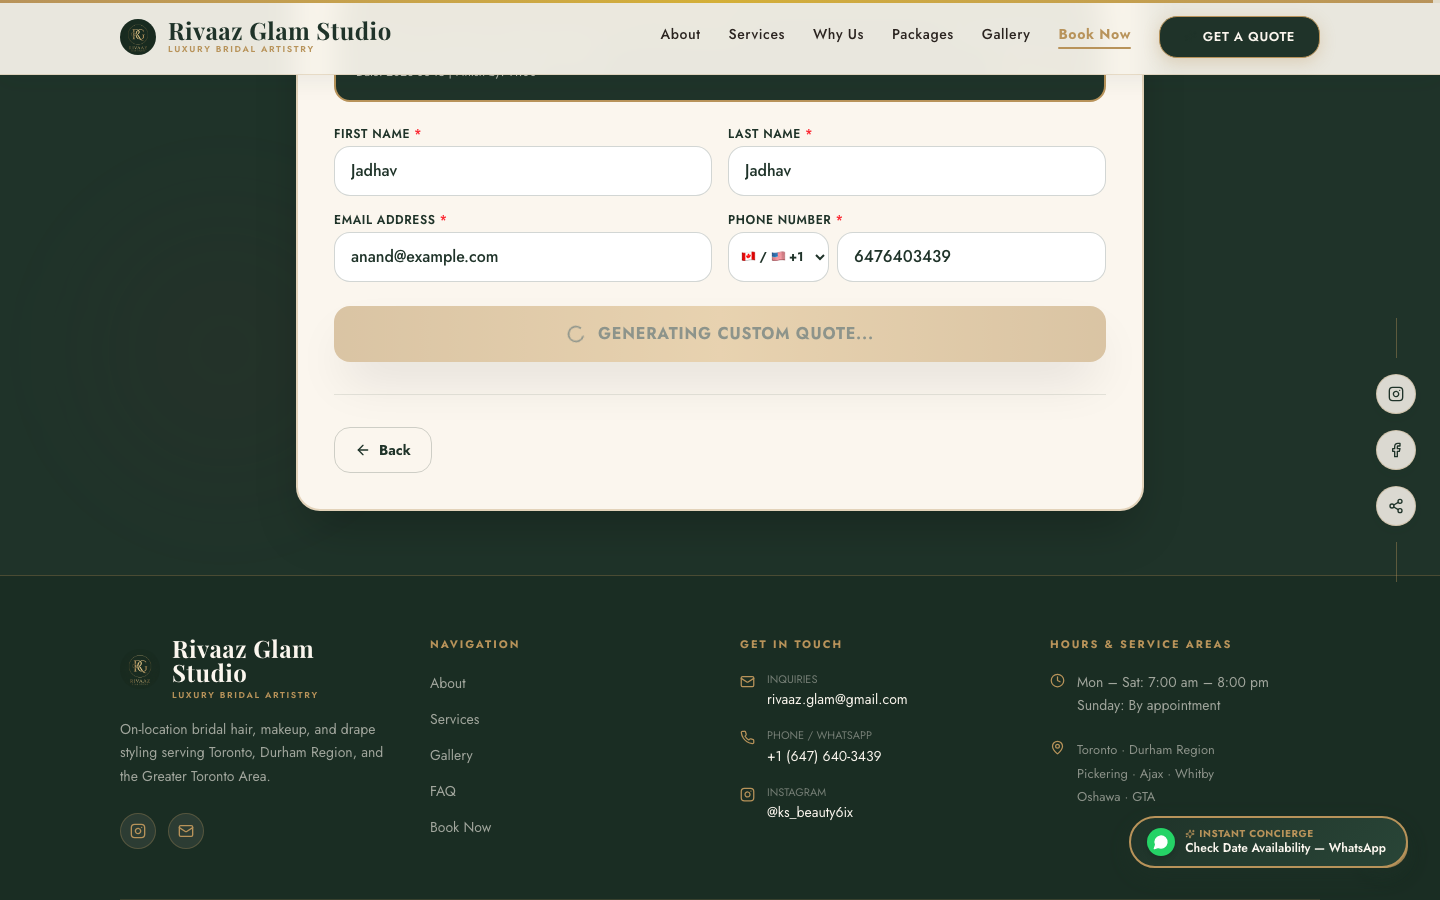
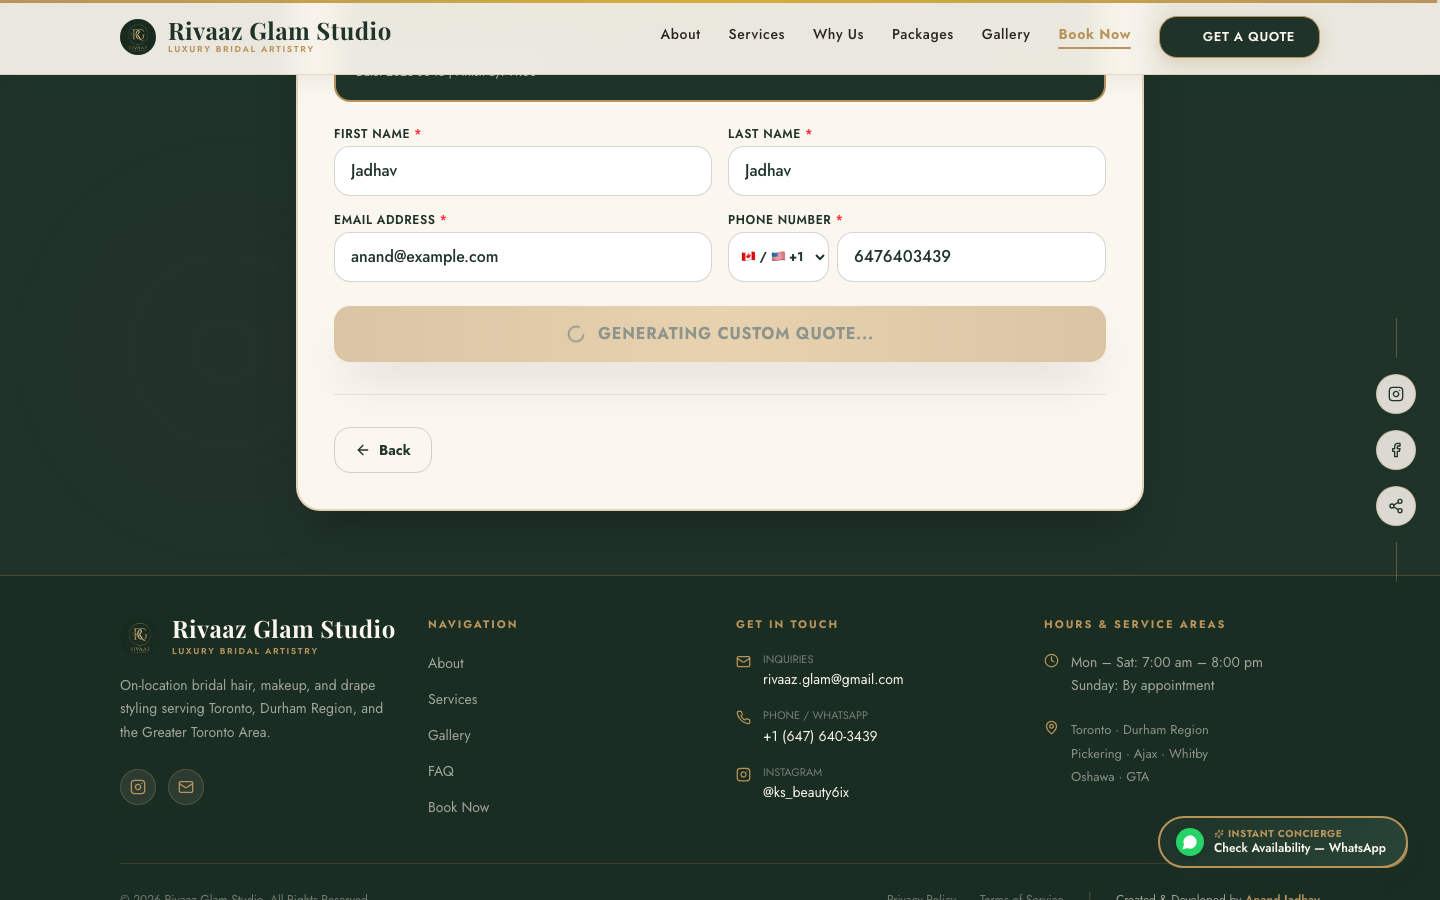
fix(ux): optimize mobile layout, unique service card imagery, compact WhatsApp button, and balanced multicultural representation

diff --git a/src/components/WhatsAppConcierge.tsx b/src/components/WhatsAppConcierge.tsx
@@ -6,7 +6,8 @@ export default function WhatsAppConcierge() {
     "https://wa.me/16476403439?text=Hi%20Rivaaz%20Glam%20Studio!%20I'd%20like%20to%20check%20bridal%20availability%20for%20my%20event.";
 
   return (
-    <aside aria-label="WhatsApp concierges" className="fixed bottom-20 right-4 sm:bottom-8 sm:right-8 z-40">
+    <aside aria-label="WhatsApp concierge" className="fixed bottom-20 right-4 sm:bottom-8 sm:right-8 z-40">
+      {/* Desktop / Tablet Full Pill */}
       <motion.a
         href={whatsappUrl}
         target="_blank"
@@ -15,7 +16,7 @@ export default function WhatsAppConcierge() {
         animate={{ opacity: 1, scale: 1 }}
         whileHover={{ scale: 1.05 }}
         whileTap={{ scale: 0.95 }}
-        className="flex items-center gap-2.5 px-4 py-2.5 rounded-full shadow-2xl border-2 transition-all duration-300 group"
+        className="hidden sm:flex items-center gap-2.5 px-4 py-2.5 rounded-full shadow-2xl border-2 transition-all duration-300 group"
         style={{
           background: "linear-gradient(135deg, #1F3329 0%, #294537 100%)",
           borderColor: "#B8935A",
@@ -30,8 +31,23 @@ export default function WhatsAppConcierge() {
           <span className="text-[10px] uppercase font-bold text-[#B8935A] tracking-wider flex items-center gap-1">
             <Sparkles size={10} /> Instant Concierge
           </span>
-          <span className="text-xs font-semibold">Check Date Availability — WhatsApp</span>
+          <span className="text-xs font-semibold">Check Availability — WhatsApp</span>
         </div>
+      </motion.a>
+
+      {/* Mobile Ultra-Compact Circular Icon (Never covers content) */}
+      <motion.a
+        href={whatsappUrl}
+        target="_blank"
+        rel="noopener noreferrer"
+        initial={{ opacity: 0, scale: 0.8 }}
+        animate={{ opacity: 1, scale: 1 }}
+        whileTap={{ scale: 0.9 }}
+        className="sm:hidden w-12 h-12 rounded-full bg-[#25D366] text-white flex items-center justify-center shadow-2xl border-2 border-[#FBF6EE] active:scale-95"
+        style={{ boxShadow: "0 6px 20px rgba(37, 211, 102, 0.4)" }}
+        aria-label="Contact via WhatsApp"
+      >
+        <MessageCircle size={22} fill="white" />
       </motion.a>
     </aside>
   );

diff --git a/src/components/ServicesSection.tsx b/src/components/ServicesSection.tsx
@@ -87,15 +87,15 @@ const featuredServices = [
     title: "Bridal Updos",
     description:
       "Intricate, secure bridal bun and updo architecture designed for dupatta support, veil attachment, and all-day stability.",
-    image: "/images/gallery/hair-styling-updo.jpg",
-    alt: "Intricate bridal updo with hair accessories",
+    image: "/images/gallery/bridal-mirror-prep.jpg",
+    alt: "Intricate bridal updo and prep in mirror reflection",
     badge: "Classic Bridal",
   },
   {
     title: "Mobile Makeup Services",
     description:
       "Luxury salon-quality beauty services delivered directly to your home, hotel suite, or venue anywhere across the GTA.",
-    image: "/images/gallery/editorial-golden-hour.jpg",
+    image: "/images/gallery/soft-glam-bouquet-profile.jpg",
     alt: "Mobile makeup artist service across Toronto & GTA",
     badge: "We Come To You",
   },
@@ -103,7 +103,7 @@ const featuredServices = [
     title: "Group Bookings",
     description:
       "Seamlessly coordinated hair and makeup scheduling for bridal parties, bridesmaids, mothers, and group celebrations.",
-    image: "/images/gallery/soft-glam-bouquet-profile.jpg",
+    image: "/images/gallery/editorial-couple-embrace.jpg",
     alt: "Group bridal party makeup and hair consultation",
     badge: "Group Package",
   },

diff --git a/src/components/Footer.tsx b/src/components/Footer.tsx
@@ -18,13 +18,13 @@ export default function Footer() {
       style={{
         background: "#1a2d23",
         borderTop: "1px solid rgba(184, 147, 90, 0.3)",
-        paddingTop: "60px",
-        paddingBottom: "32px",
+        paddingTop: "40px",
+        paddingBottom: "24px",
       }}
     >
       <div className="max-w-7xl mx-auto px-6 lg:px-10">
         {/* Main footer grid */}
-        <div className="grid grid-cols-1 md:grid-cols-2 lg:grid-cols-4 gap-10 mb-12">
+        <div className="grid grid-cols-1 md:grid-cols-2 lg:grid-cols-4 gap-8 mb-8">
           {/* Brand column */}
           <div className="lg:col-span-1">
             <div className="flex items-center gap-3 mb-4">

diff --git a/src/components/HeroSection.tsx b/src/components/HeroSection.tsx
@@ -176,9 +176,9 @@ export default function HeroSection({ onQuickQuoteSubmit }: HeroSectionProps) {
             <h1
               style={{
                 fontFamily: "var(--app-font-serif)",
-                fontSize: "34px",
+                fontSize: "clamp(24px, 6vw, 32px)",
                 fontWeight: 700,
-                lineHeight: 1.12,
+                lineHeight: 1.15,
                 color: "#FBF6EE",
                 marginBottom: "8px",
               }}
